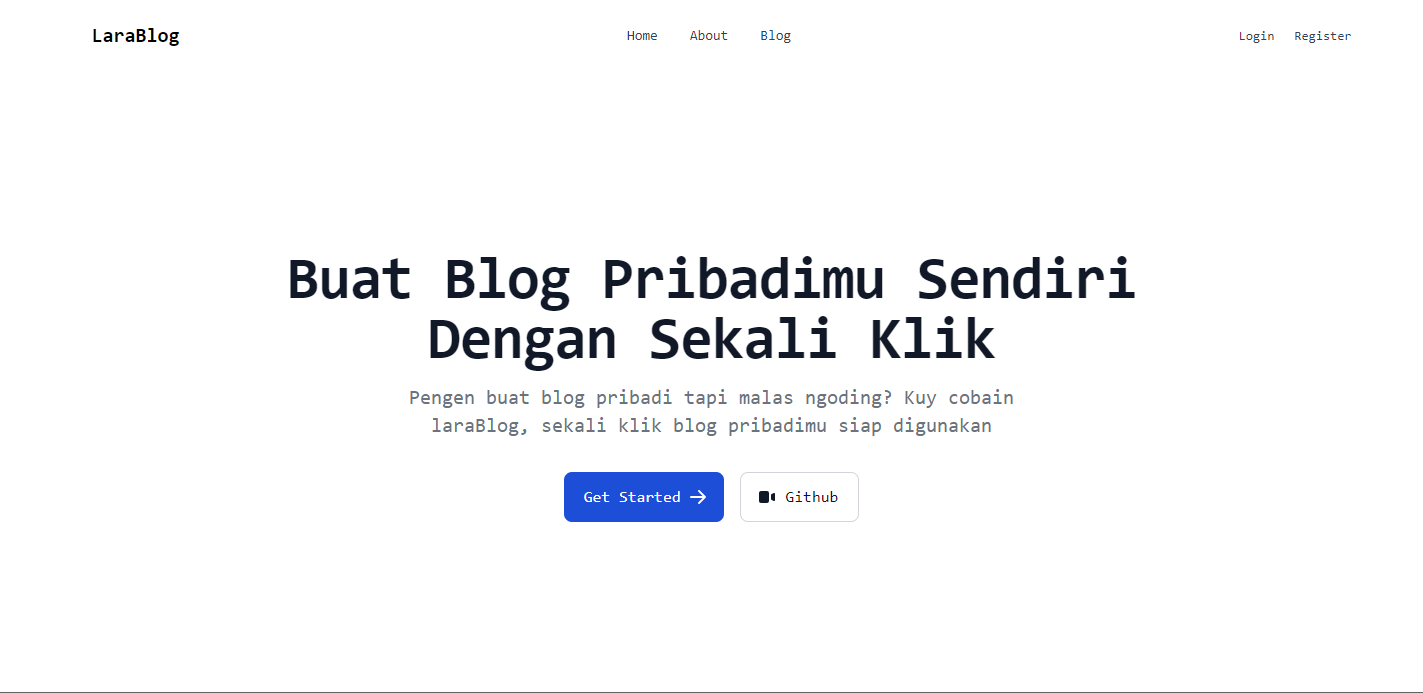
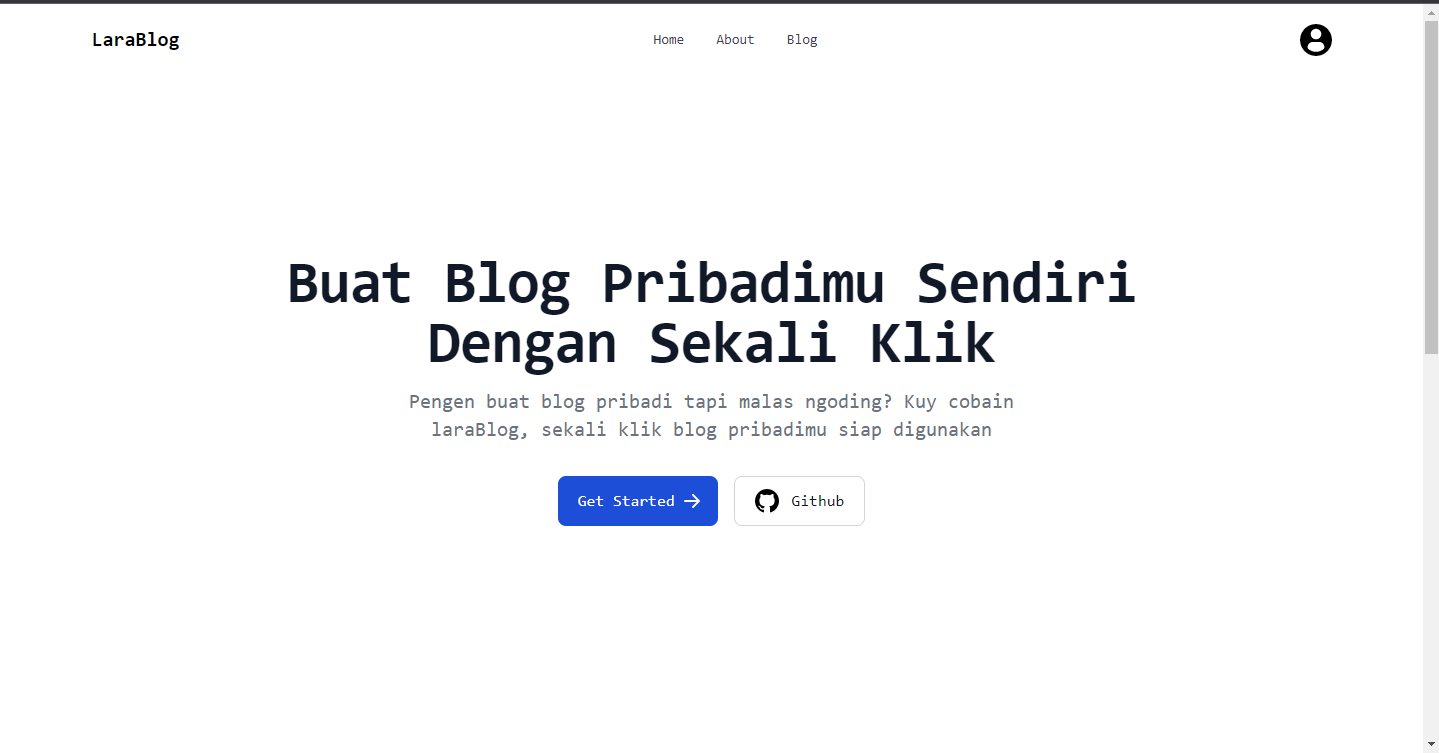
'.'

Changed region(s): [[0.1855, 0.3333, 0.8039, 0.7576], [0.0, 0.0, 1.0, 0.4848], [0.9895, 0.9697, 1.0, 1.0]]

diff --git a/resources/views/profile.blade.php b/resources/views/profile.blade.php
@@ -2,7 +2,7 @@
     <div class="flex flex-col px-1 sm:px-5 md:justify-between">
         <div class="flex items-center justify-start md:flex-row">
             @if($user->image)
-                <img src="{{ asset("image/re.png") }}" alt="" class="w-20 p-1 mt-5 border-2 border-gray-300 rounded-full sm:block sm:w-[8.3rem]">
+                <img src="{{ asset("storage/$user->image") }}" alt="" class="w-20 p-1 mt-5 border-2 border-gray-300 rounded-full sm:block sm:w-[8.3rem]">
             @else
                 <img src="{{ asset("icon/profile.svg") }}" alt="" class="w-20 p-1 mt-5 border-2 border-gray-300 rounded-full sm:block sm:w-[8.3rem]">
             @endif
@@ -42,10 +42,7 @@
             </form>
             
             @else
-            <form action="{{ route("follow", $user->username) }}" method="POST">
-                @csrf
-                <button type="submit" ref="#" class="px-5 py-2 mr-3 text-sm font-medium text-white bg-blue-700 rounded-md sm:ml-5 sm:px-10 hover:bg-blue-800 focus:ring-4 focus:outline-none focus:ring-blue-300 dark:bg-blue-600 dark:hover:bg-blue-700 dark:focus:ring-blue-800 ">Edit Profile</button>
-            </form>
+                <a href="/profile/edit" class="px-5 py-2 mr-3 text-sm font-medium text-white bg-blue-700 rounded-md sm:ml-5 sm:px-10 hover:bg-blue-800 focus:ring-4 focus:outline-none focus:ring-blue-300 dark:bg-blue-600 dark:hover:bg-blue-700 dark:focus:ring-blue-800 ">Edit Profile</a>
             @endif
             </div>
         </div>

diff --git a/app/Http/Controllers/ProfileController.php b/app/Http/Controllers/ProfileController.php
@@ -2,8 +2,10 @@
 
 namespace App\Http\Controllers;
 
+use App\Models\User;
 use Illuminate\Http\Request;
 use Illuminate\Support\Facades\Auth;
+use Illuminate\Support\Facades\Storage;
 
 class ProfileController extends Controller
 {
@@ -29,6 +31,19 @@ class ProfileController extends Controller
     }
 
     public function update (Request $request) {
-        dd($request);
+        $validatedData = $request->validate([
+            "name" => "required",
+            "username" => "required"
+        ]);
+
+        if ($request->file("image")){
+            $validatedData["image"] = $request->file("image")->store("profile");
+            if(auth()->user()->image) {
+                Storage::delete(auth()->user()->image);
+            }
+        }
+
+        User::find(auth()->user()->id)->update($validatedData);
+        return redirect("/profile");
     }
 }

diff --git a/resources/views/components/navbar/profile.blade.php b/resources/views/components/navbar/profile.blade.php
@@ -2,9 +2,9 @@
     <button type="button" class="flex mr-3 text-sm bg-gray-800 rounded-full lg:mr-5 md:mr-0 focus:ring-4 focus:ring-gray-300 dark:focus:ring-gray-600" id="user-menu-button" aria-expanded="false" data-dropdown-toggle="user-dropdown" data-dropdown-placement="bottom">
       <span class="sr-only">Open user menu</span>
   @if(auth()->user()->image)
-      <img src="{{ asset("image/re.png") }}" alt="" class="w-8 h-8 rounded-full">
+      <img src="{{ asset("storage/" . Auth()->user()->image ) }}" alt="" class="w-8 h-8 rounded-full">
   @else
-      <img src="{{ asset("icon/profile.svg") }}" alt="" class="w-8 h-8  bg-white  rounded-full">
+      <img src="{{ asset("icon/profile.svg") }}" alt="" class="w-8 h-8 bg-white rounded-full">
   @endif
     </button>
     <!-- Dropdown menu -->

diff --git a/database/seeders/DatabaseSeeder.php b/database/seeders/DatabaseSeeder.php
@@ -18,9 +18,9 @@ class DatabaseSeeder extends Seeder
     public function run()
     {
         User::create([
-            "name" => "kazuto",
-            "username" => "kazuto",
-            "email" => "kazuto@gmail.com",
+            "name" => "Re",
+            "username" => "re",
+            "email" => "re@gmail.com",
             "password" => bcrypt(123),
             "role" => "admin"
         ]);

diff --git a/app/Models/User.php b/app/Models/User.php
@@ -22,6 +22,7 @@ class User extends Authenticatable
         'username',
         'email',
         'password',
+        "image"
     ];
 
     /**
